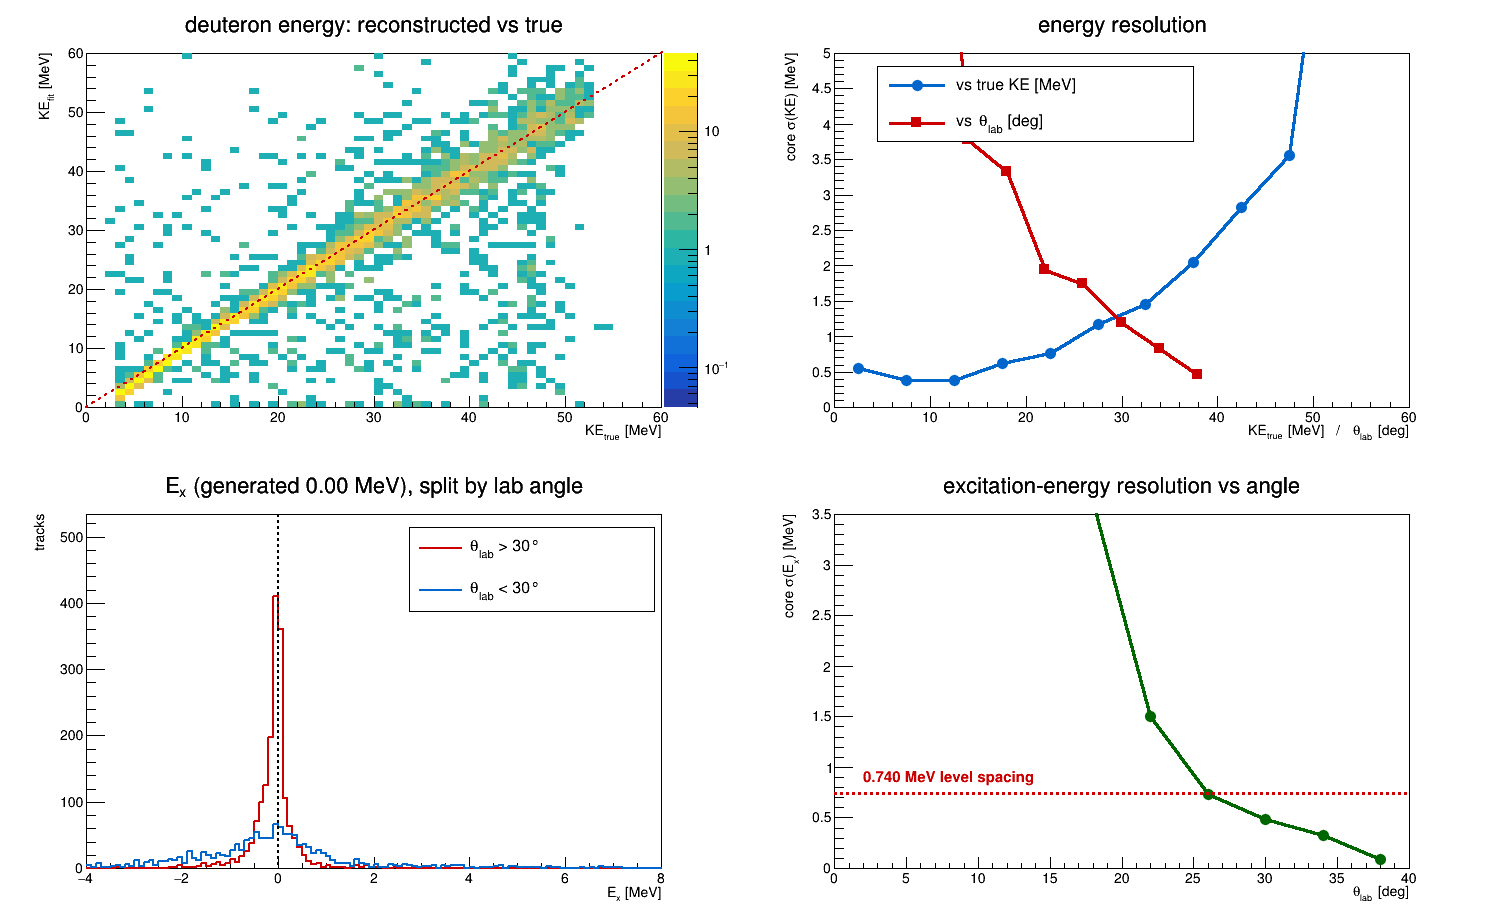
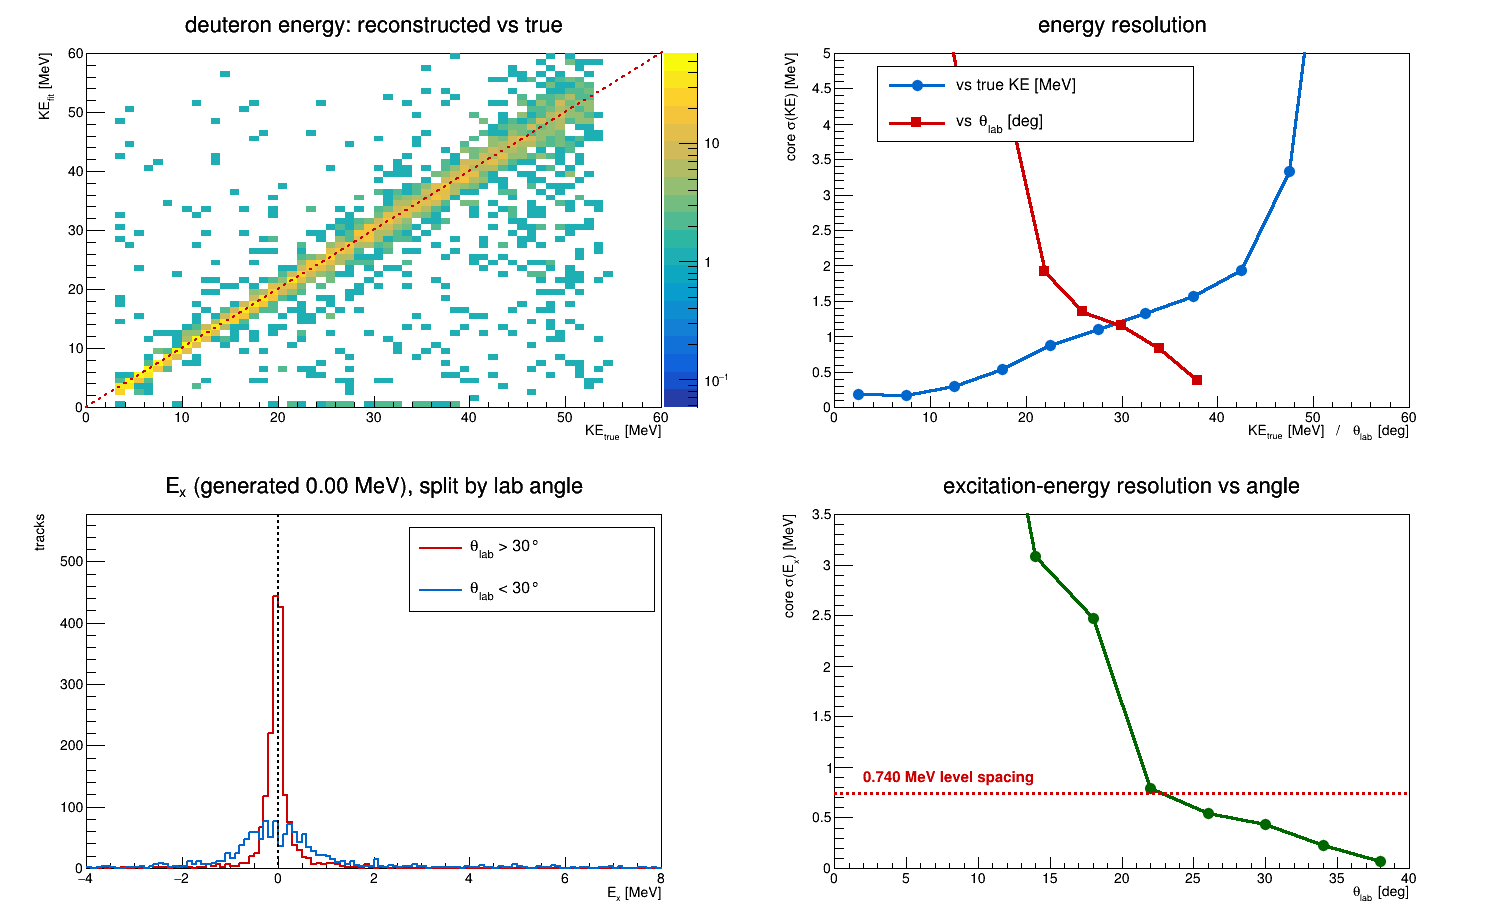
Per-state acceptance and resolution for 16C(p,d)15C at 300 torr
The four states the analysis extracts -- 0, 0.740, 3.10, 4.66 MeV in 15C --
generated, reconstructed, fitted and measured against MC truth.

ACCEPTANCE. Integrated it is 0.735, 0.741, 0.734, 0.754, i.e. the same for
every state, which is exactly why a single number is misleading. Drawn
against theta_cm the four agree to about 5 percent between 20 and 140 deg
and part company at both ends: below 20 deg the ratio to the ground state
falls to 0.58 for the 3.10 MeV state and 0.39 for the 4.66, and above
140 deg the same happens again. Both are where the deuteron is slowest and
the higher states have least energy left. A common curve is defensible over
20-140 deg; outside it per-state acceptance is essential but the values are
low and steeply varying.

RESOLUTION. Excitation-energy resolution is strongly angle-dependent, and
the 0.740 MeV level spacing is only beaten beyond theta_lab ~ 24-28 deg
(core sigma 0.79 at 24 deg for the ground state, 0.45 by 32 deg). It also
improves with excitation energy at fixed angle -- 0.79, 0.64, 0.27, 0.14 at
24 deg across the four states -- because a higher-Ex state leaves a slower
deuteron and the energy resolution degrades steeply with deuteron energy.

Fixes a silent failure in acceptance_C16pd.C: it wrote into a diagnostics/
directory it did not create, so TFile failed to open and the macro went on
to announce that it had written a file which did not exist. It now creates
[…]

diff --git a/macro/Simulation/ATTPC/16C_pd/plot_acc_C16pd.C b/macro/Simulation/ATTPC/16C_pd/plot_acc_C16pd.C
@@ -1,0 +1,146 @@
+/// @file plot_acc_C16pd.C
+/// @brief The four 16C(p,d)15C acceptances on one figure, and their ratios to the ground state.
+///
+/// The reason to draw them together is that the INTEGRATED numbers are nearly identical -- 0.735,
+/// 0.741, 0.734, 0.754 -- so a single figure per state, or a single number, hides the thing that
+/// matters. The states differ at the two ends of the angular range and agree in the middle, and
+/// the bottom panel is what shows it: the ratio to the ground state is flat to about 5 percent
+/// between 20 and 140 degrees and departs badly outside that.
+///
+/// Acceptance here is truth-matched: a generated reaction counts in the numerator only if a
+/// fitted track exists whose angle and energy match the true deuteron. Counting any converged fit
+/// instead would credit the beam and the scattered ion, which in the a1954 analysis produced a
+/// fake acceptance of about 0.9 on protons that had never made a track.
+///
+///   root -b -q 'plot_acc_C16pd.C()'
+
+void plot_acc_C16pd(TString dir = "diagnostics/", TString tag = "")
+{
+   gStyle->SetOptStat(0);
+   TString here = gSystem->DirName(gInterpreter->GetCurrentMacroName());
+
+   const int NS = 4;
+   const char *T[NS] = {"gs", "ex1", "ex2", "ex3"};
+   const char *NM[NS] = {"g.s.", "0.740 MeV", "3.10 MeV", "4.66 MeV"};
+   const int COL[NS] = {kBlack, kAzure + 2, kRed + 1, kGreen + 3};
+
+   TH1D *acc[NS] = {nullptr, nullptr, nullptr, nullptr};
+   for (int s = 0; s < NS; ++s) {
+      TFile *f = TFile::Open(here + "/" + dir + "acceptance_" + T[s] + ".root");
+      if (!f || f->IsZombie()) {
+         printf("\033[1;31mmissing acceptance_%s.root\033[0m\n", T[s]);
+         continue;
+      }
+      // the histogram name carries the tag the acceptance macro was run with
+      TIter nx(f->GetListOfKeys());
+      TKey *k;
+      while ((k = (TKey *)nx())) {
+         TString n = k->GetName();
+         if (n.BeginsWith("hAcc")) {
+            acc[s] = (TH1D *)f->Get(n);
+            acc[s]->SetDirectory(nullptr);
+            break;
+         }
+      }
+      f->Close();
+   }
+   if (!acc[0]) {
+      printf("\033[1;31mno ground-state acceptance -- nothing to normalise to\033[0m\n");
+      return;
+   }
+
+   TCanvas *c = new TCanvas("cacc", "acceptance", 1250, 900);
+   c->Divide(1, 2);
+
+   c->cd(1);
+   gPad->SetGridy();
+   auto *fr = new TH1D("fr", "16C(p,d)^{15}C acceptance, per final state;#theta_{cm} [deg];acceptance", 1, 0, 180);
+   fr->SetMinimum(0);
+   fr->SetMaximum(1.15);
+   fr->Draw();
+   auto *lg = new TLegend(0.13, 0.14, 0.42, 0.36);
+   for (int s = 0; s < NS; ++s) {
+      if (!acc[s])
+         continue;
+      acc[s]->SetLineColor(COL[s]);
+      acc[s]->SetMarkerColor(COL[s]);
+      acc[s]->SetMarkerStyle(20 + s);
+      acc[s]->SetMarkerSize(1.0);
+      acc[s]->SetLineWidth(2);
+      acc[s]->Draw("E1 same");
+      lg->AddEntry(acc[s], NM[s], "lp");
+   }
+   lg->Draw();
+   // the range the states agree over, and therefore the range a common curve could be used in
+   for (double x : {20.0, 140.0}) {
+      auto *l = new TLine(x, 0, x, 1.15);
+      l->SetLineColor(kGray + 2);
+      l->SetLineStyle(2);
+      l->SetLineWidth(2);
+      l->Draw();
+   }
+
+   c->cd(2);
+   gPad->SetGridy();
+   auto *fr2 = new TH1D("fr2", "ratio to the ground state;#theta_{cm} [deg];acceptance / acceptance(g.s.)", 1, 0, 180);
+   fr2->SetMinimum(0);
+   fr2->SetMaximum(2.0);
+   fr2->Draw();
+   printf("\n  ratio to the g.s., in 20 deg bins\n  theta_cm |");
+   for (int s = 1; s < NS; ++s)
+      printf("  %-9s", NM[s]);
+   printf("\n");
+   TH1D *rat[NS] = {nullptr, nullptr, nullptr, nullptr};
+   for (int s = 1; s < NS; ++s) {
+      if (!acc[s])
+         continue;
+      rat[s] = (TH1D *)acc[s]->Clone(TString::Format("r%d", s));
+      rat[s]->SetDirectory(nullptr);
+      rat[s]->Divide(acc[s], acc[0]);
+      rat[s]->SetLineColor(COL[s]);
+      rat[s]->SetMarkerColor(COL[s]);
+      rat[s]->SetMarkerStyle(20 + s);
+      rat[s]->SetLineWidth(2);
+      rat[s]->Draw("E1 same");
+   }
+   auto *one = new TLine(0, 1, 180, 1);
+   one->SetLineColor(kBlack);
+   one->SetLineWidth(2);
+   one->Draw();
+   for (double x : {20.0, 140.0}) {
+      auto *l = new TLine(x, 0, x, 2.0);
+      l->SetLineColor(kGray + 2);
+      l->SetLineStyle(2);
+      l->SetLineWidth(2);
+      l->Draw();
+   }
+   for (double lo = 0; lo < 180; lo += 20) {
+      printf("   %3.0f-%3.0f |", lo, lo + 20);
+      for (int s = 1; s < NS; ++s) {
+         if (!rat[s]) {
+            printf("     -    ");
+            continue;
+         }
+         // average the ratio over the bins in this 20 deg window, skipping empty ones
+         double sum = 0;
+         int n = 0;
+         for (int b = 1; b <= rat[s]->GetNbinsX(); ++b) {
+            double x = rat[s]->GetBinCenter(b);
+            if (x < lo || x >= lo + 20 || rat[s]->GetBinContent(b) <= 0)
+               continue;
+            sum += rat[s]->GetBinContent(b);
+            ++n;
+         }
+         if (n)
+            printf("   %.3f  ", sum / n);
+         else
+            printf("     -    ");
+      }
+      printf("\n");
+   }
+
+   TString png = here + "/plots/acceptance_C16pd" + tag + ".png";
+   gSystem->mkdir(here + "/plots", kTRUE);
+   c->SaveAs(png);
+   printf("\n  wrote %s\n\n", png.Data());
+}

diff --git a/macro/Simulation/ATTPC/16C_pd/acceptance_C16pd.C b/macro/Simulation/ATTPC/16C_pd/acceptance_C16pd.C
@@ -212,7 +212,14 @@ void acceptance_C16pd(TString simFile, TString fitFile, TString tag = "gs", Doub
    }
 
    TString outDir = TString(gSystem->DirName(gInterpreter->GetCurrentMacroName())) + "/diagnostics/";
+   // Create it. Without this the TFile silently fails to open and the macro goes on to announce
+   // that it wrote a file that does not exist.
+   gSystem->mkdir(outDir, kTRUE);
    TFile fo(outDir + "acceptance_" + tag + ".root", "RECREATE");
+   if (fo.IsZombie()) {
+      printf("\033[1;31mcannot write %sacceptance_%s.root\033[0m\n", outDir.Data(), tag.Data());
+      return;
+   }
    hGen->Write(); hRec->Write(); hAcc->Write(); hLab->Write(); hLabR->Write();
    fo.Close();
 
